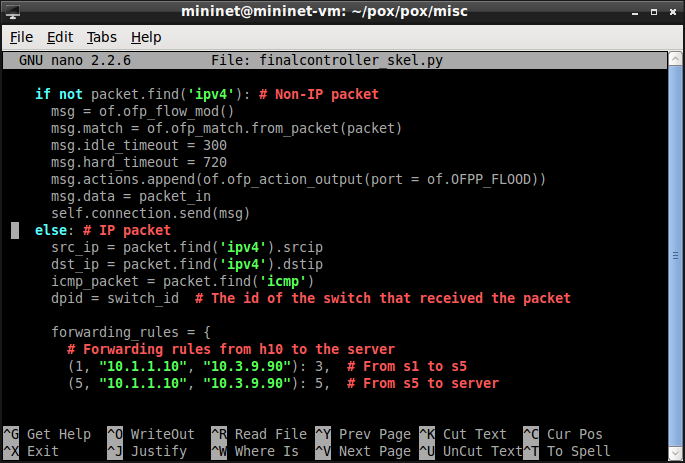
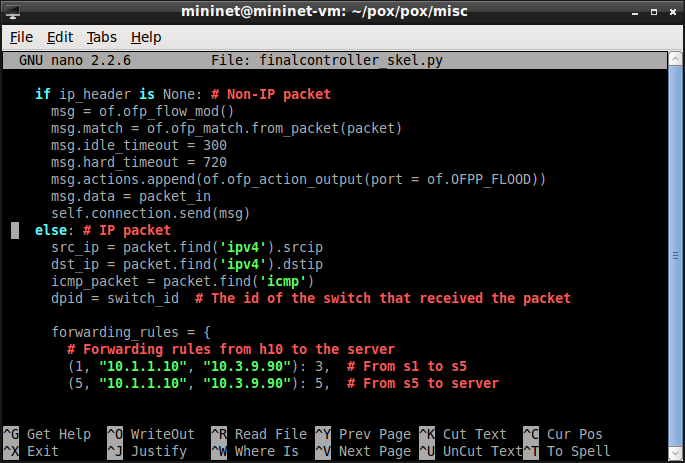
okk

Changed region(s): [[0.0613, 0.1814, 0.5518, 0.2419]]

diff --git a/finalcontroller_skel.py b/finalcontroller_skel.py
@@ -55,8 +55,9 @@ class Final (object):
     #      (for example, s1 would have switch_id == 1, s2 would have switch_id == 2, etc...)
     # You should use these to determine where a packet came from. To figure out where a packet 
     # is going, you can use the IP header information.
-
-    if not packet.find('ipv4'): # Non-IP packet
+    ip_header = packet.find('ipv4')
+    
+    if ip_header is None: # Non-IP packet
       msg = of.ofp_flow_mod()
       msg.match = of.ofp_match.from_packet(packet)
       msg.idle_timeout = 300
